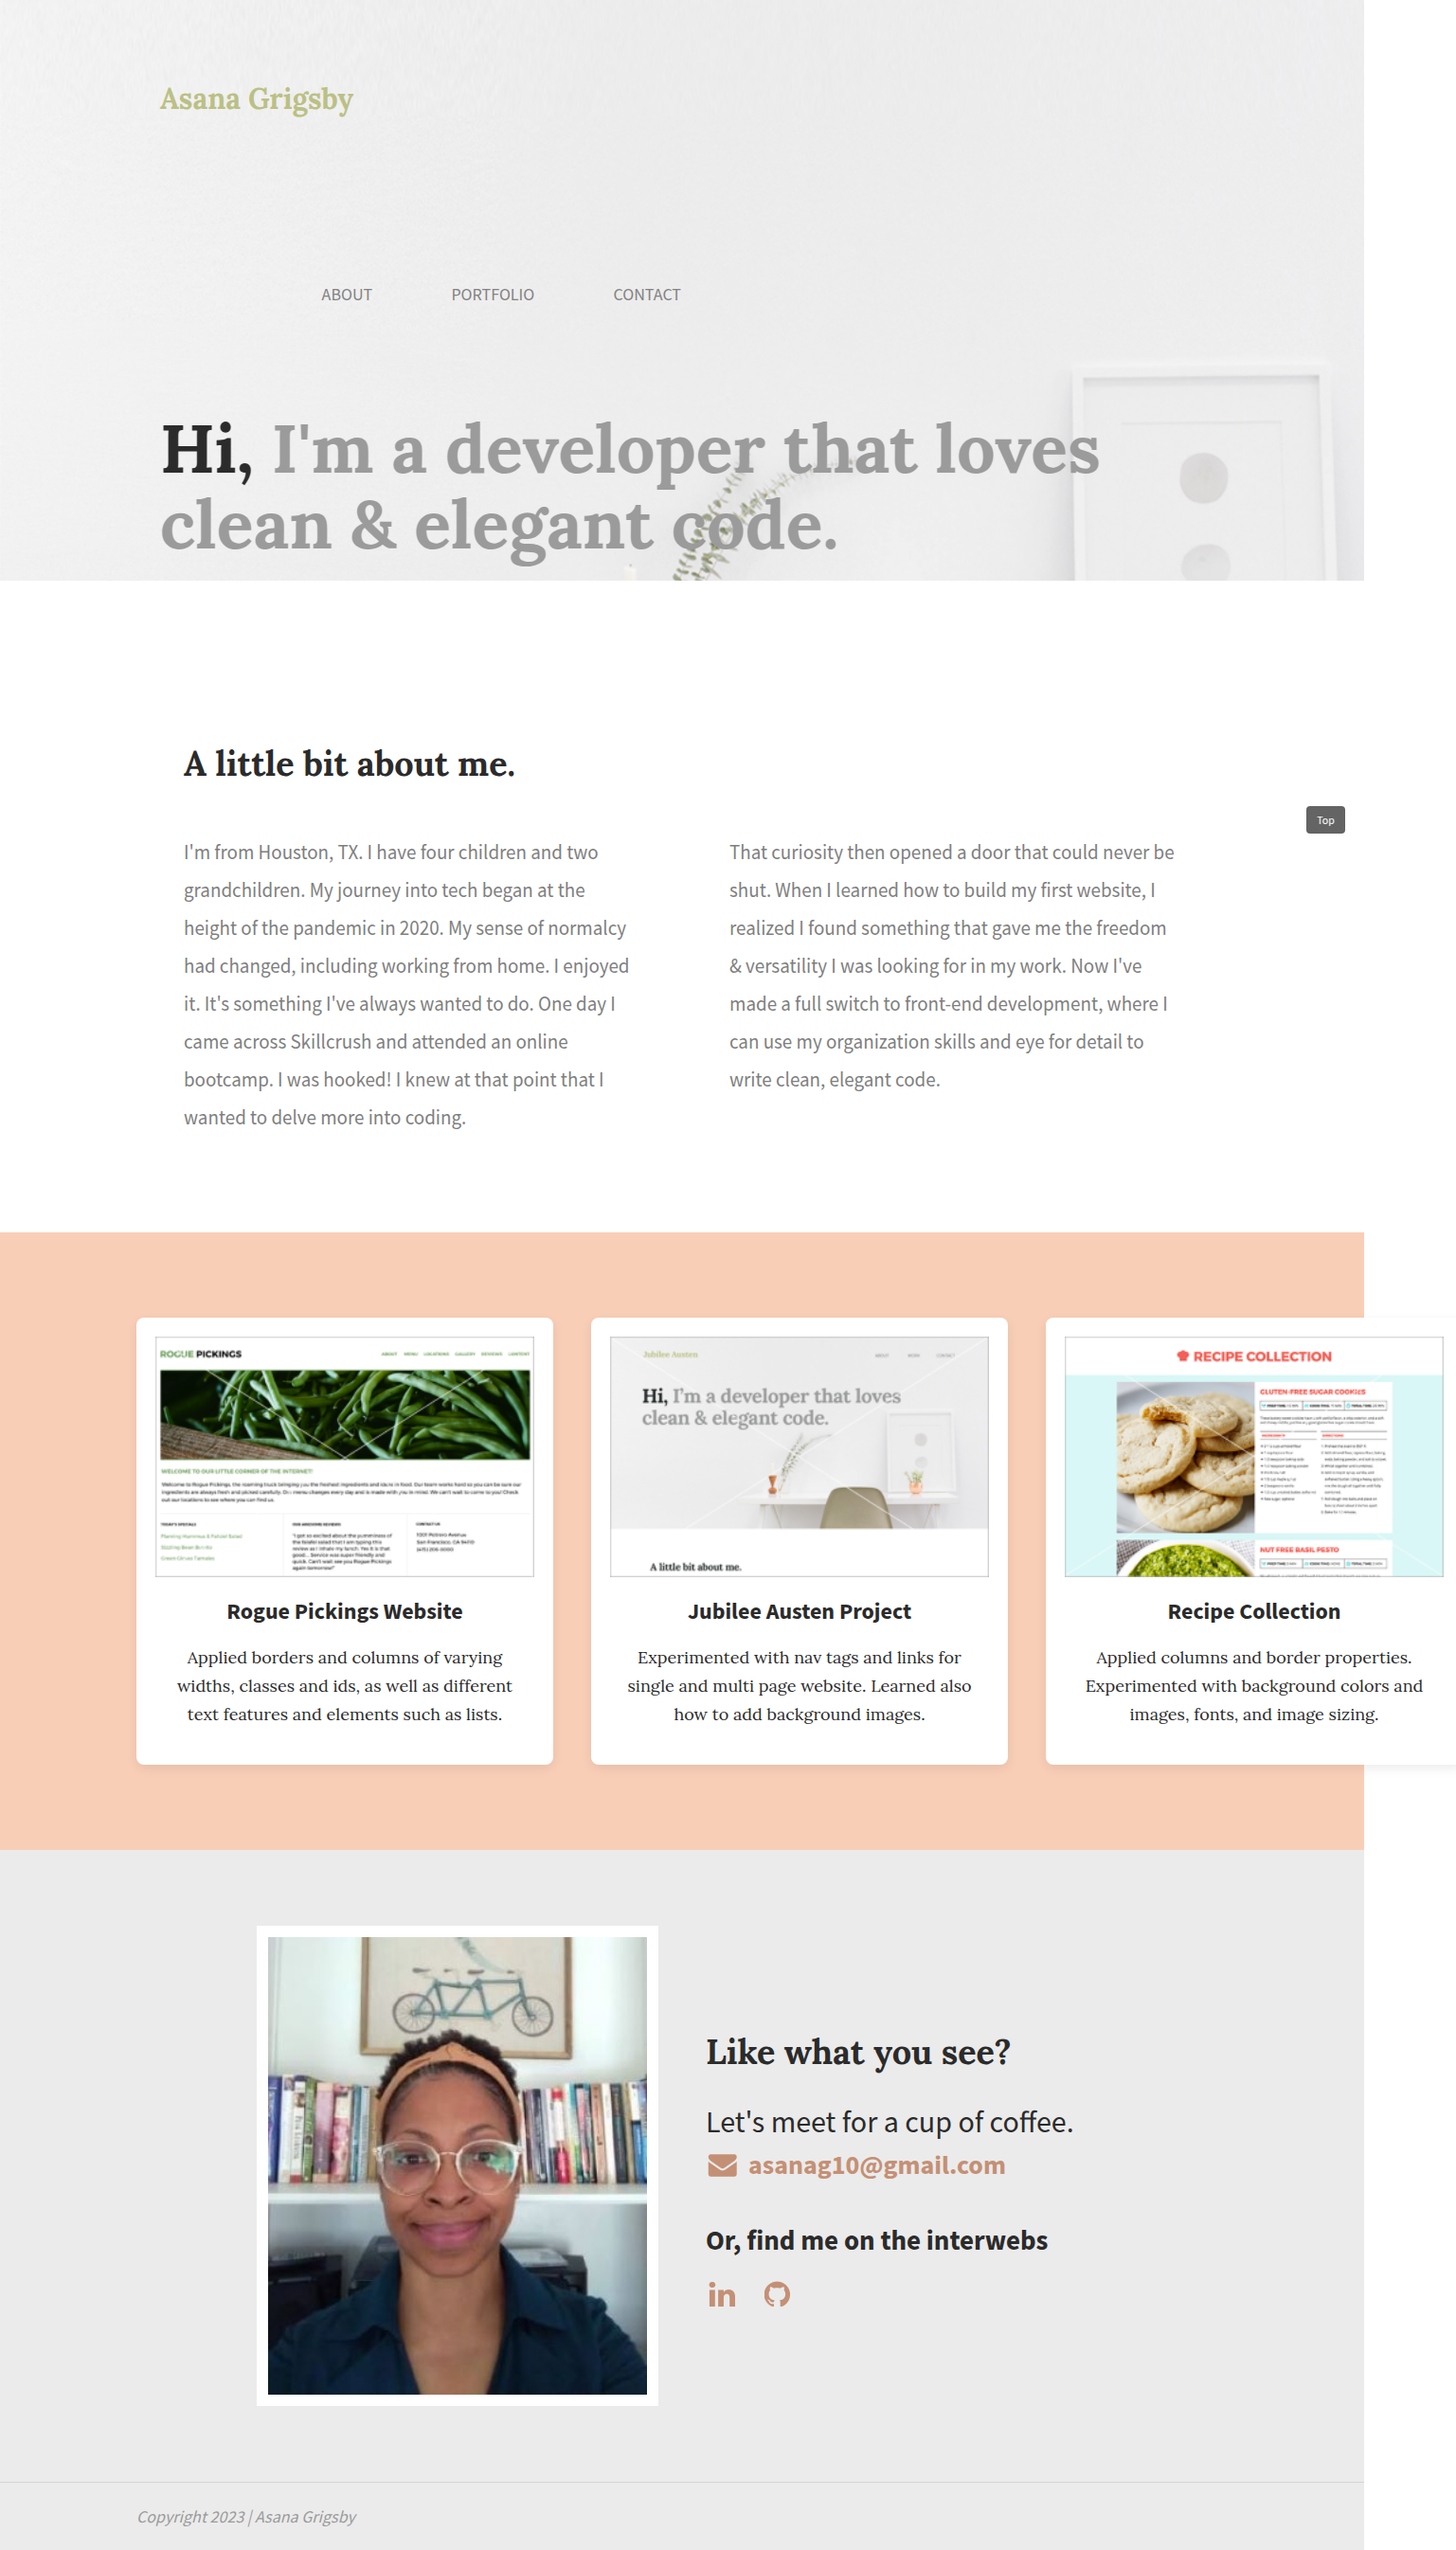
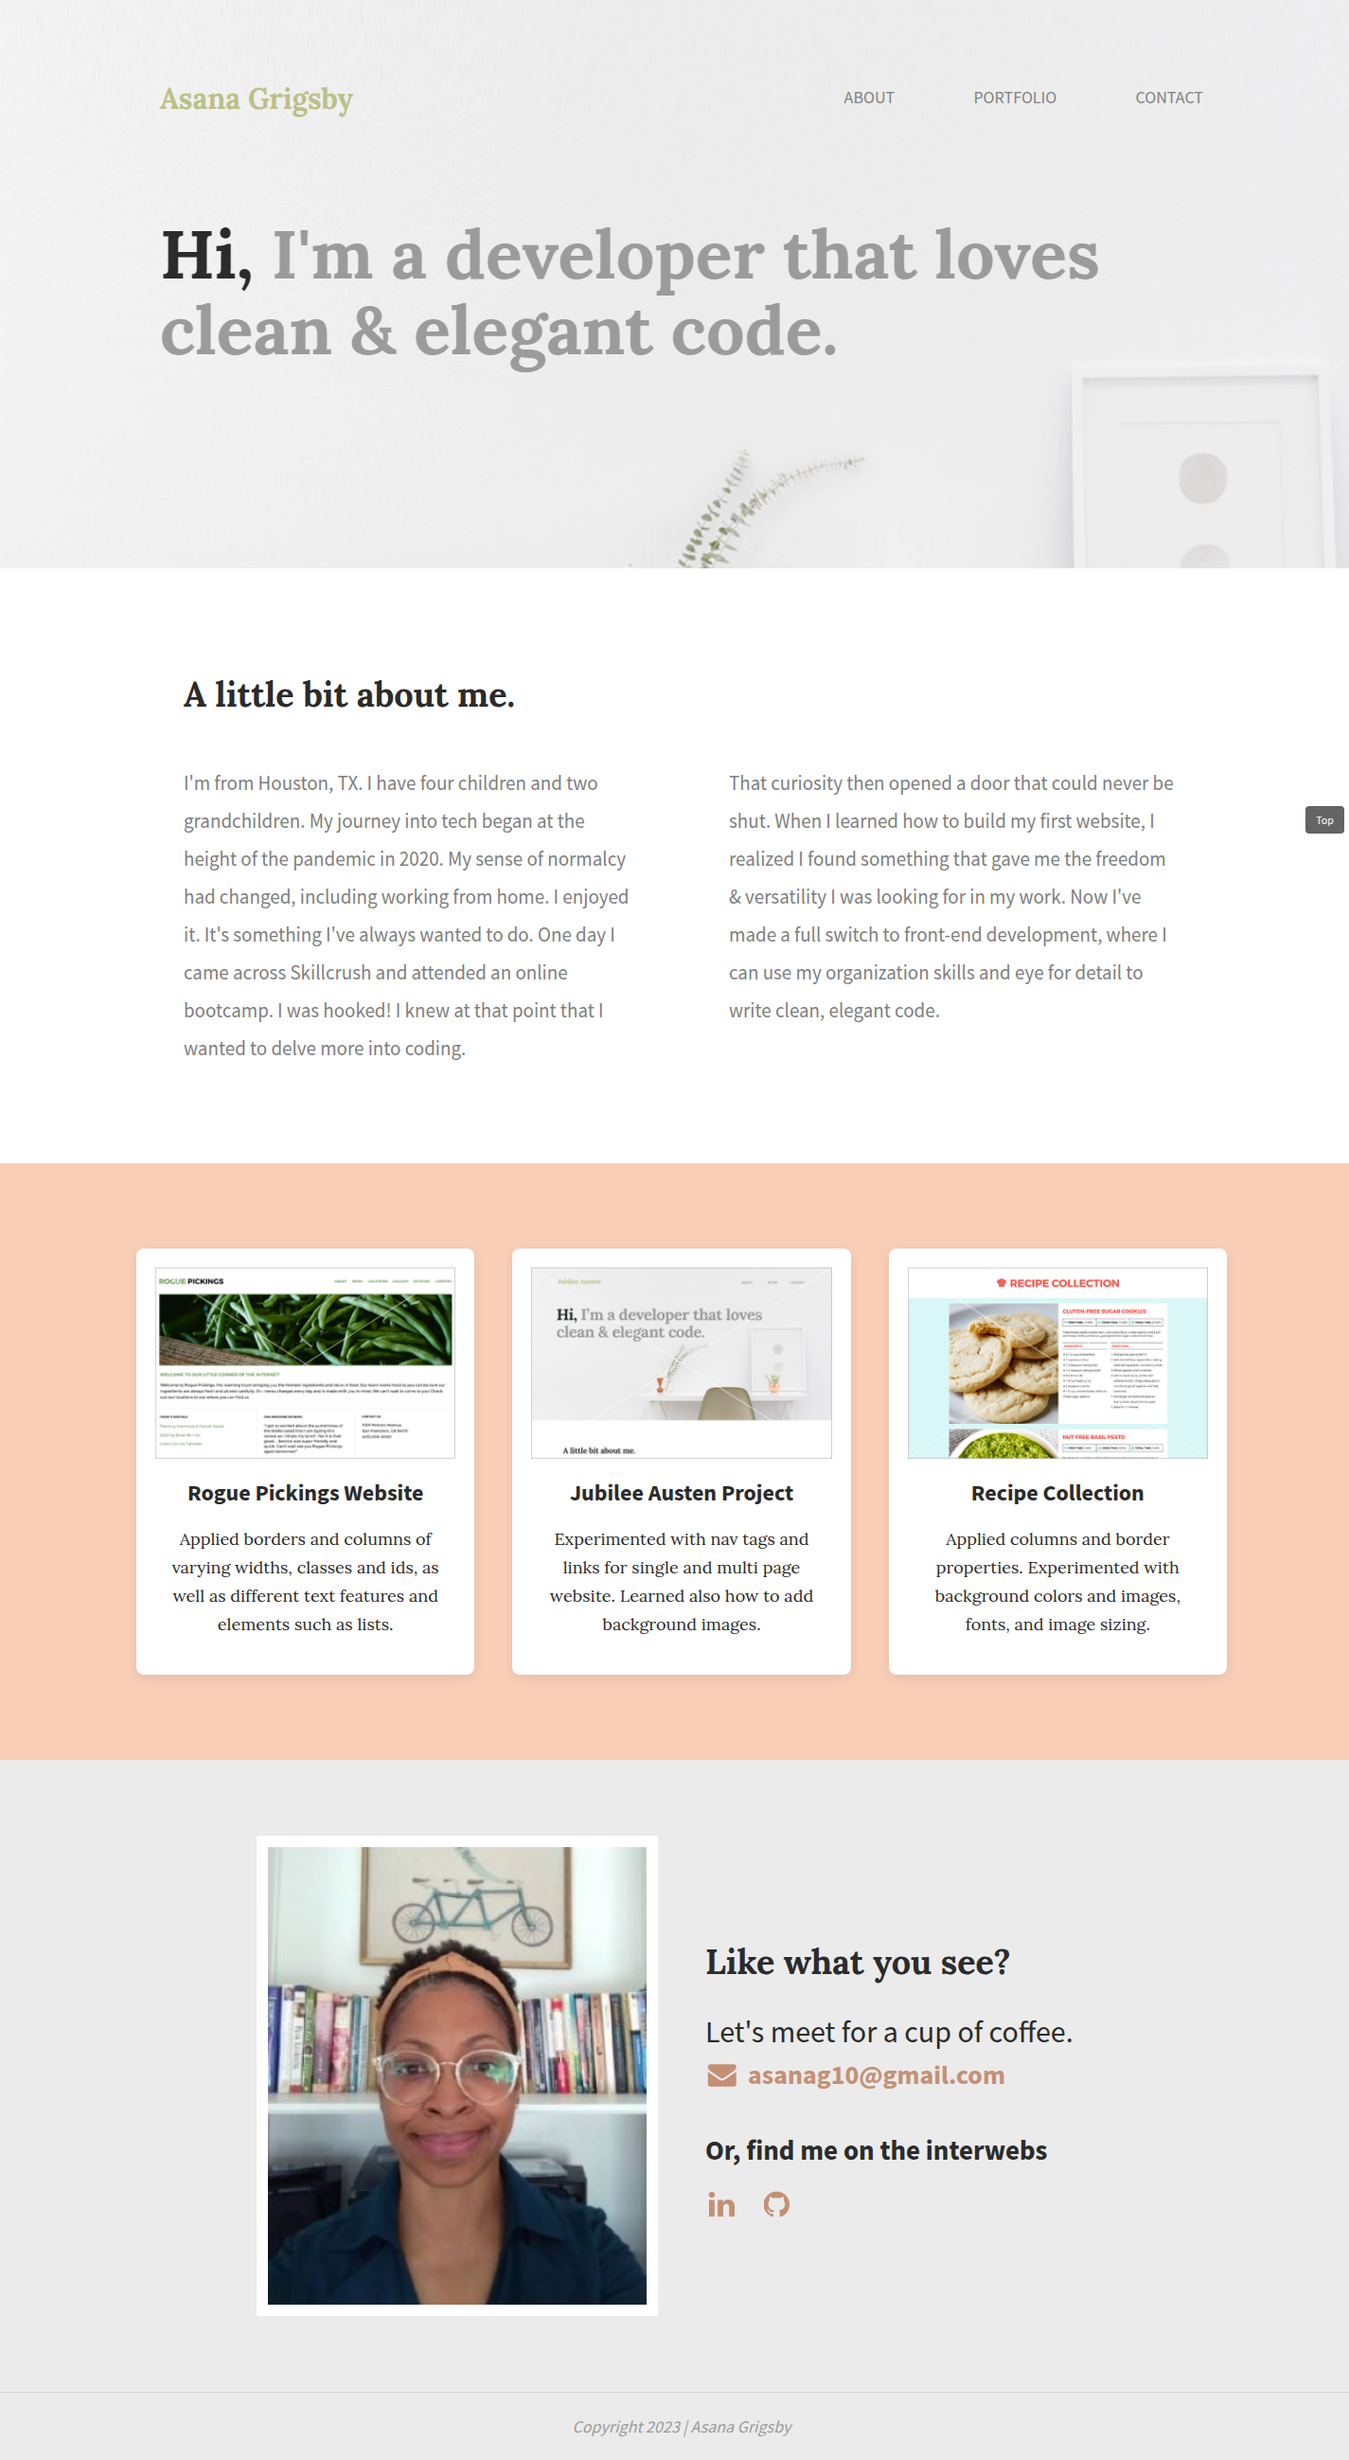
Fix review findings: header nav layout, portfolio card sizing, copyright centering, footer semantics

diff --git a/css/main.css b/css/main.css
@@ -27,8 +27,9 @@ img {
     box-sizing: border-box;
 }
 .half-width {
-    width: 600px;
+    width: 50%;
     float: left;
+    box-sizing: border-box;
 }
 .third-width {
     width: 400px;
@@ -84,11 +85,6 @@ header h2 span {
     overflow: hidden;
 }
 
-#about .half-width {
-    width: 50%;
-    box-sizing: border-box;
-}
-
 #about h2 {
     font-family: 'Lora', serif;
     font-size: 36px;
@@ -137,8 +133,14 @@ header h2 span {
     padding: 0 10px;
 }
 
+#portfolio .image-container {
+    width: auto;
+    float: none;
+}
+
 .image-container {
     position: relative;
+    box-sizing: border-box;
     background-color: #ffffff;
     border-radius: 8px;
     box-shadow: 0 4px 12px rgba(0, 0, 0, 0.08);
@@ -160,7 +162,7 @@ header h2 span {
 #contact {
     background-color: #ebebeb;
 }
-#contact .full-width {
+#contact > .full-width {
     display: flex;
     align-items: center;
     gap: 50px;
@@ -287,7 +289,7 @@ header h2 span {
     #portfolio .full-width {
         grid-template-columns: repeat(2, 1fr);
     }
-    #contact .full-width {
+    #contact > .full-width {
         flex-direction: column;
         text-align: center;
     }
@@ -306,7 +308,7 @@ header h2 span {
         line-height: 38px;
     }
     #about .full-width,
-    #contact .full-width {
+    #contact > .full-width {
         padding: 50px 1.5rem;
     }
     #portfolio .full-width {

diff --git a/index.html b/index.html
@@ -60,8 +60,9 @@
                     </div>
                 </div>
             </section>
+        </main>
 
-            <footer id="contact">
+        <footer id="contact">
                 <div class="full-width">
                     <div class="half-width">
                         <img src="img/ME.jpg" id="contact-img" alt="Portrait of Asana Grigsby" />
@@ -82,8 +83,7 @@
                         <h5>Copyright 2023 | Asana Grigsby</h5>
                     </div>
                 </div>
-            </footer>
-        </main>
+        </footer>
         <a class="back-to-top" href="#top">Top</a>
     </body>
 </html>
